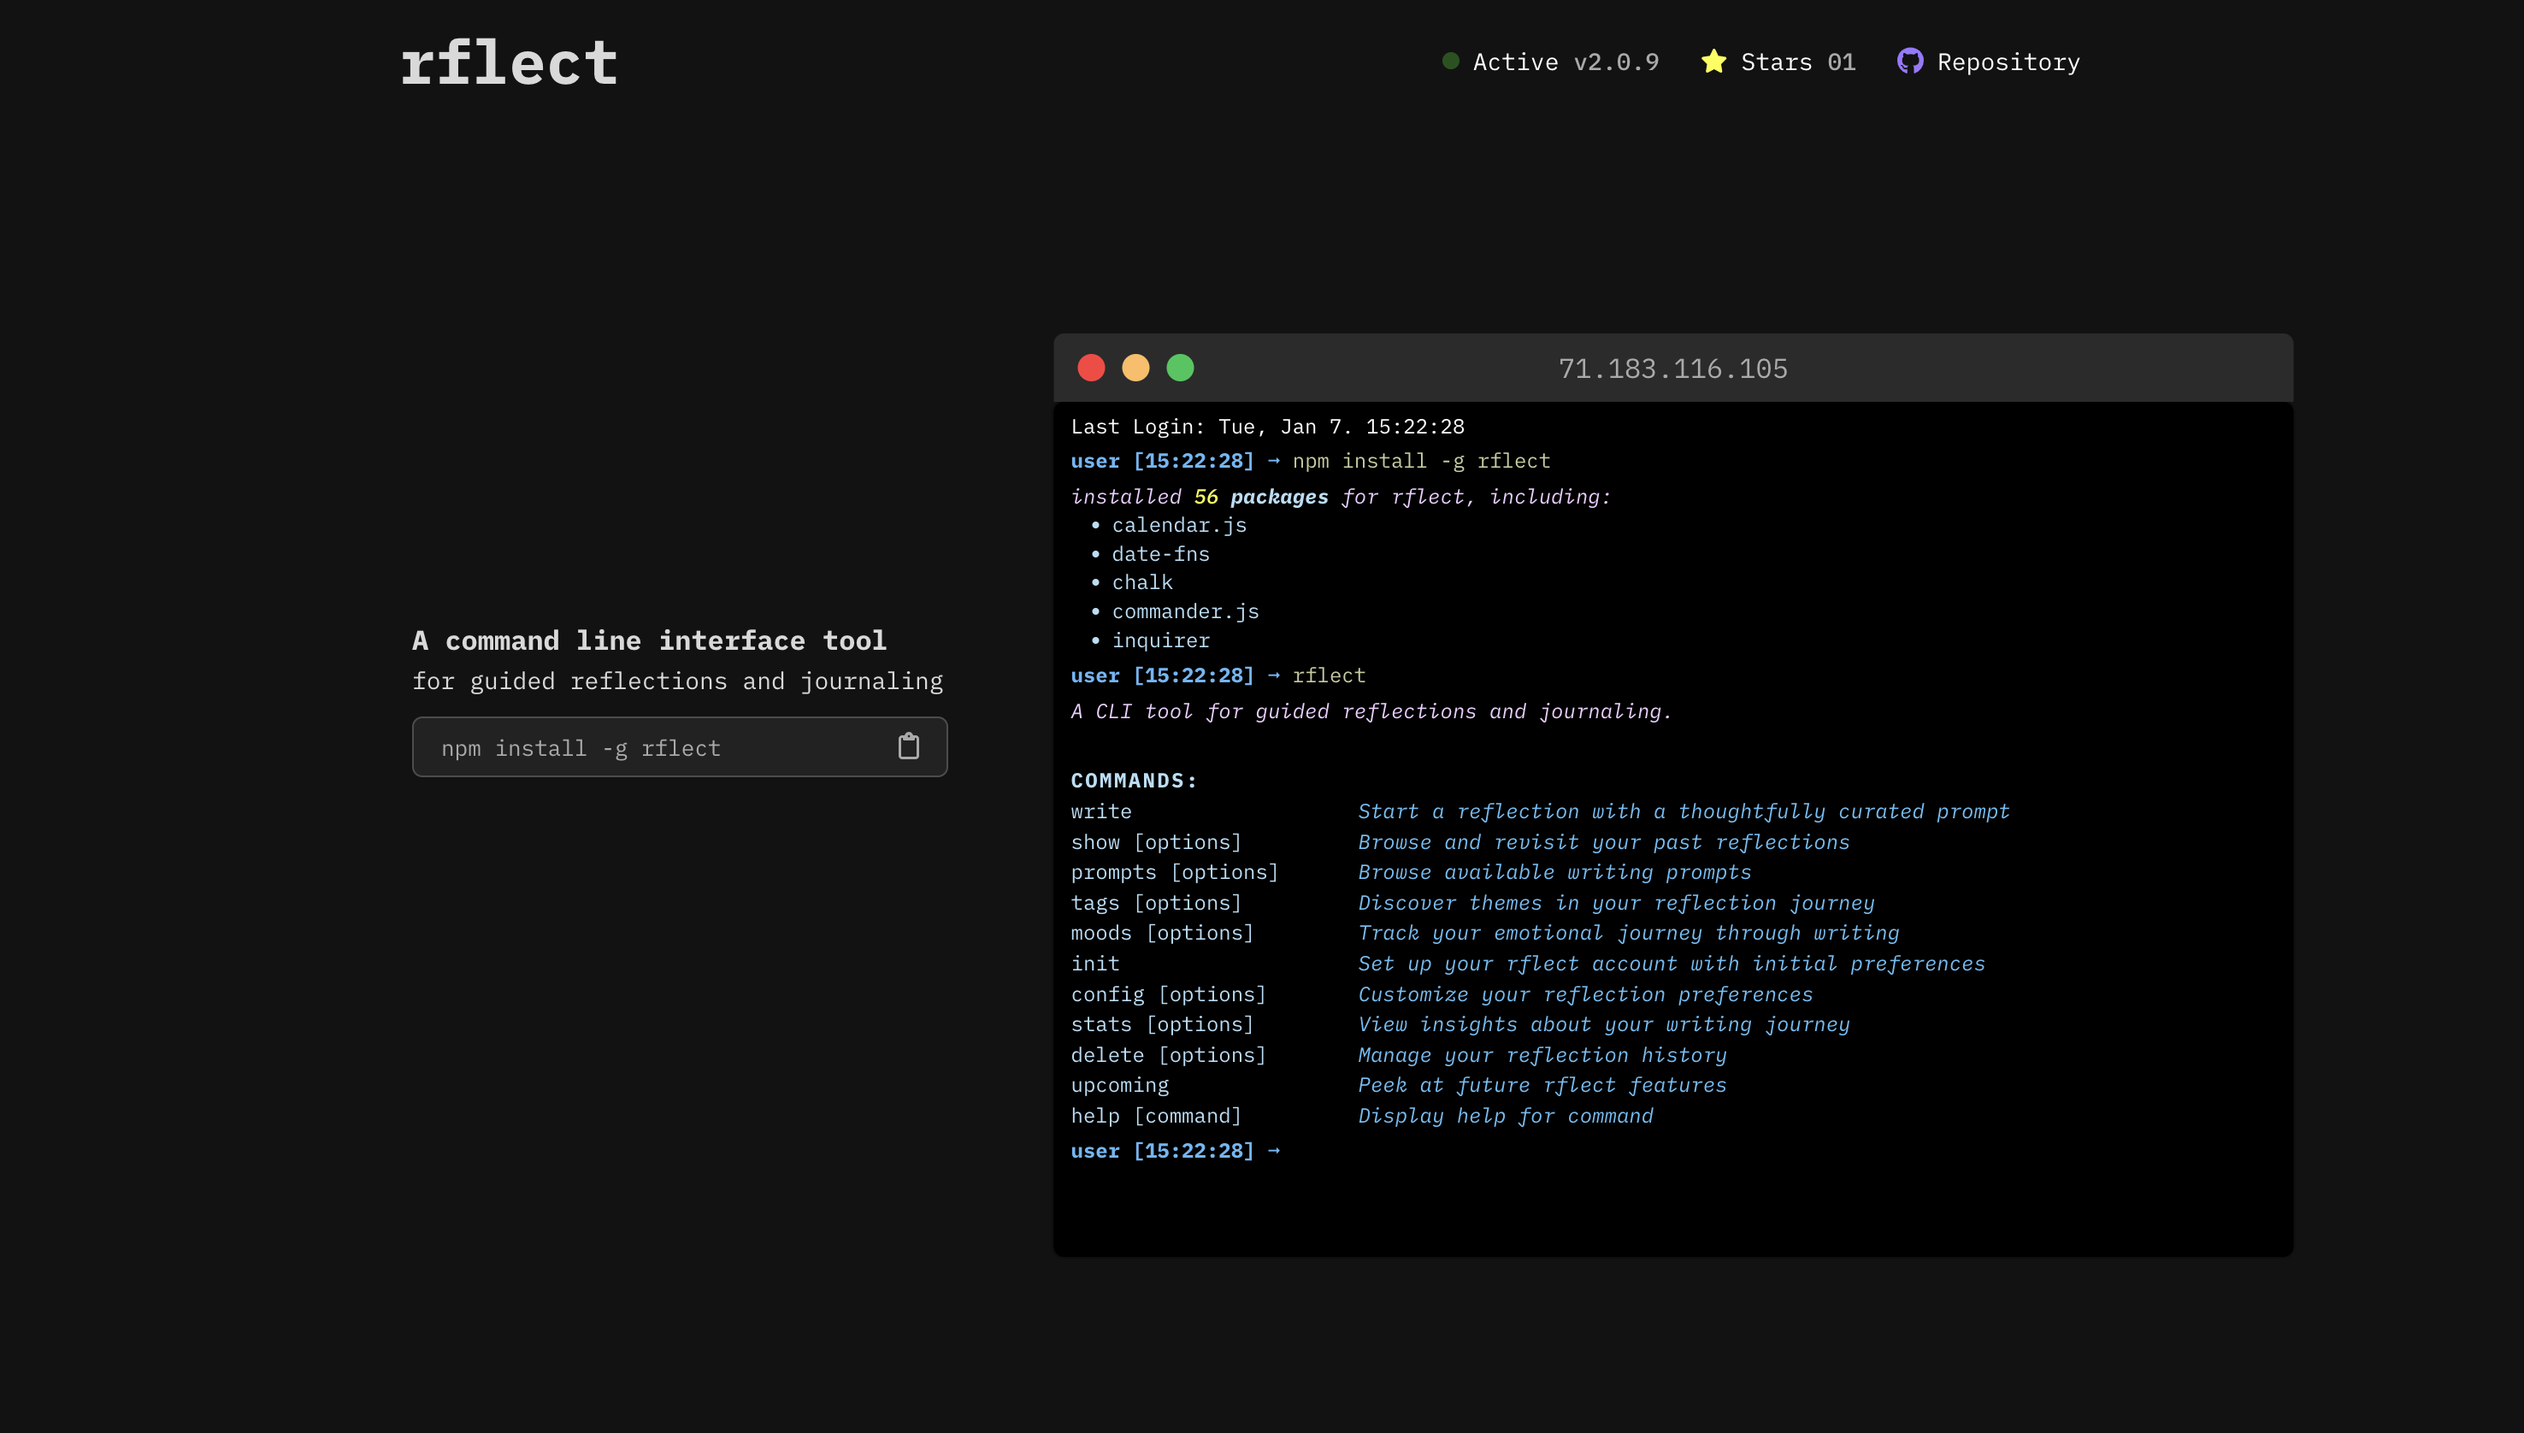
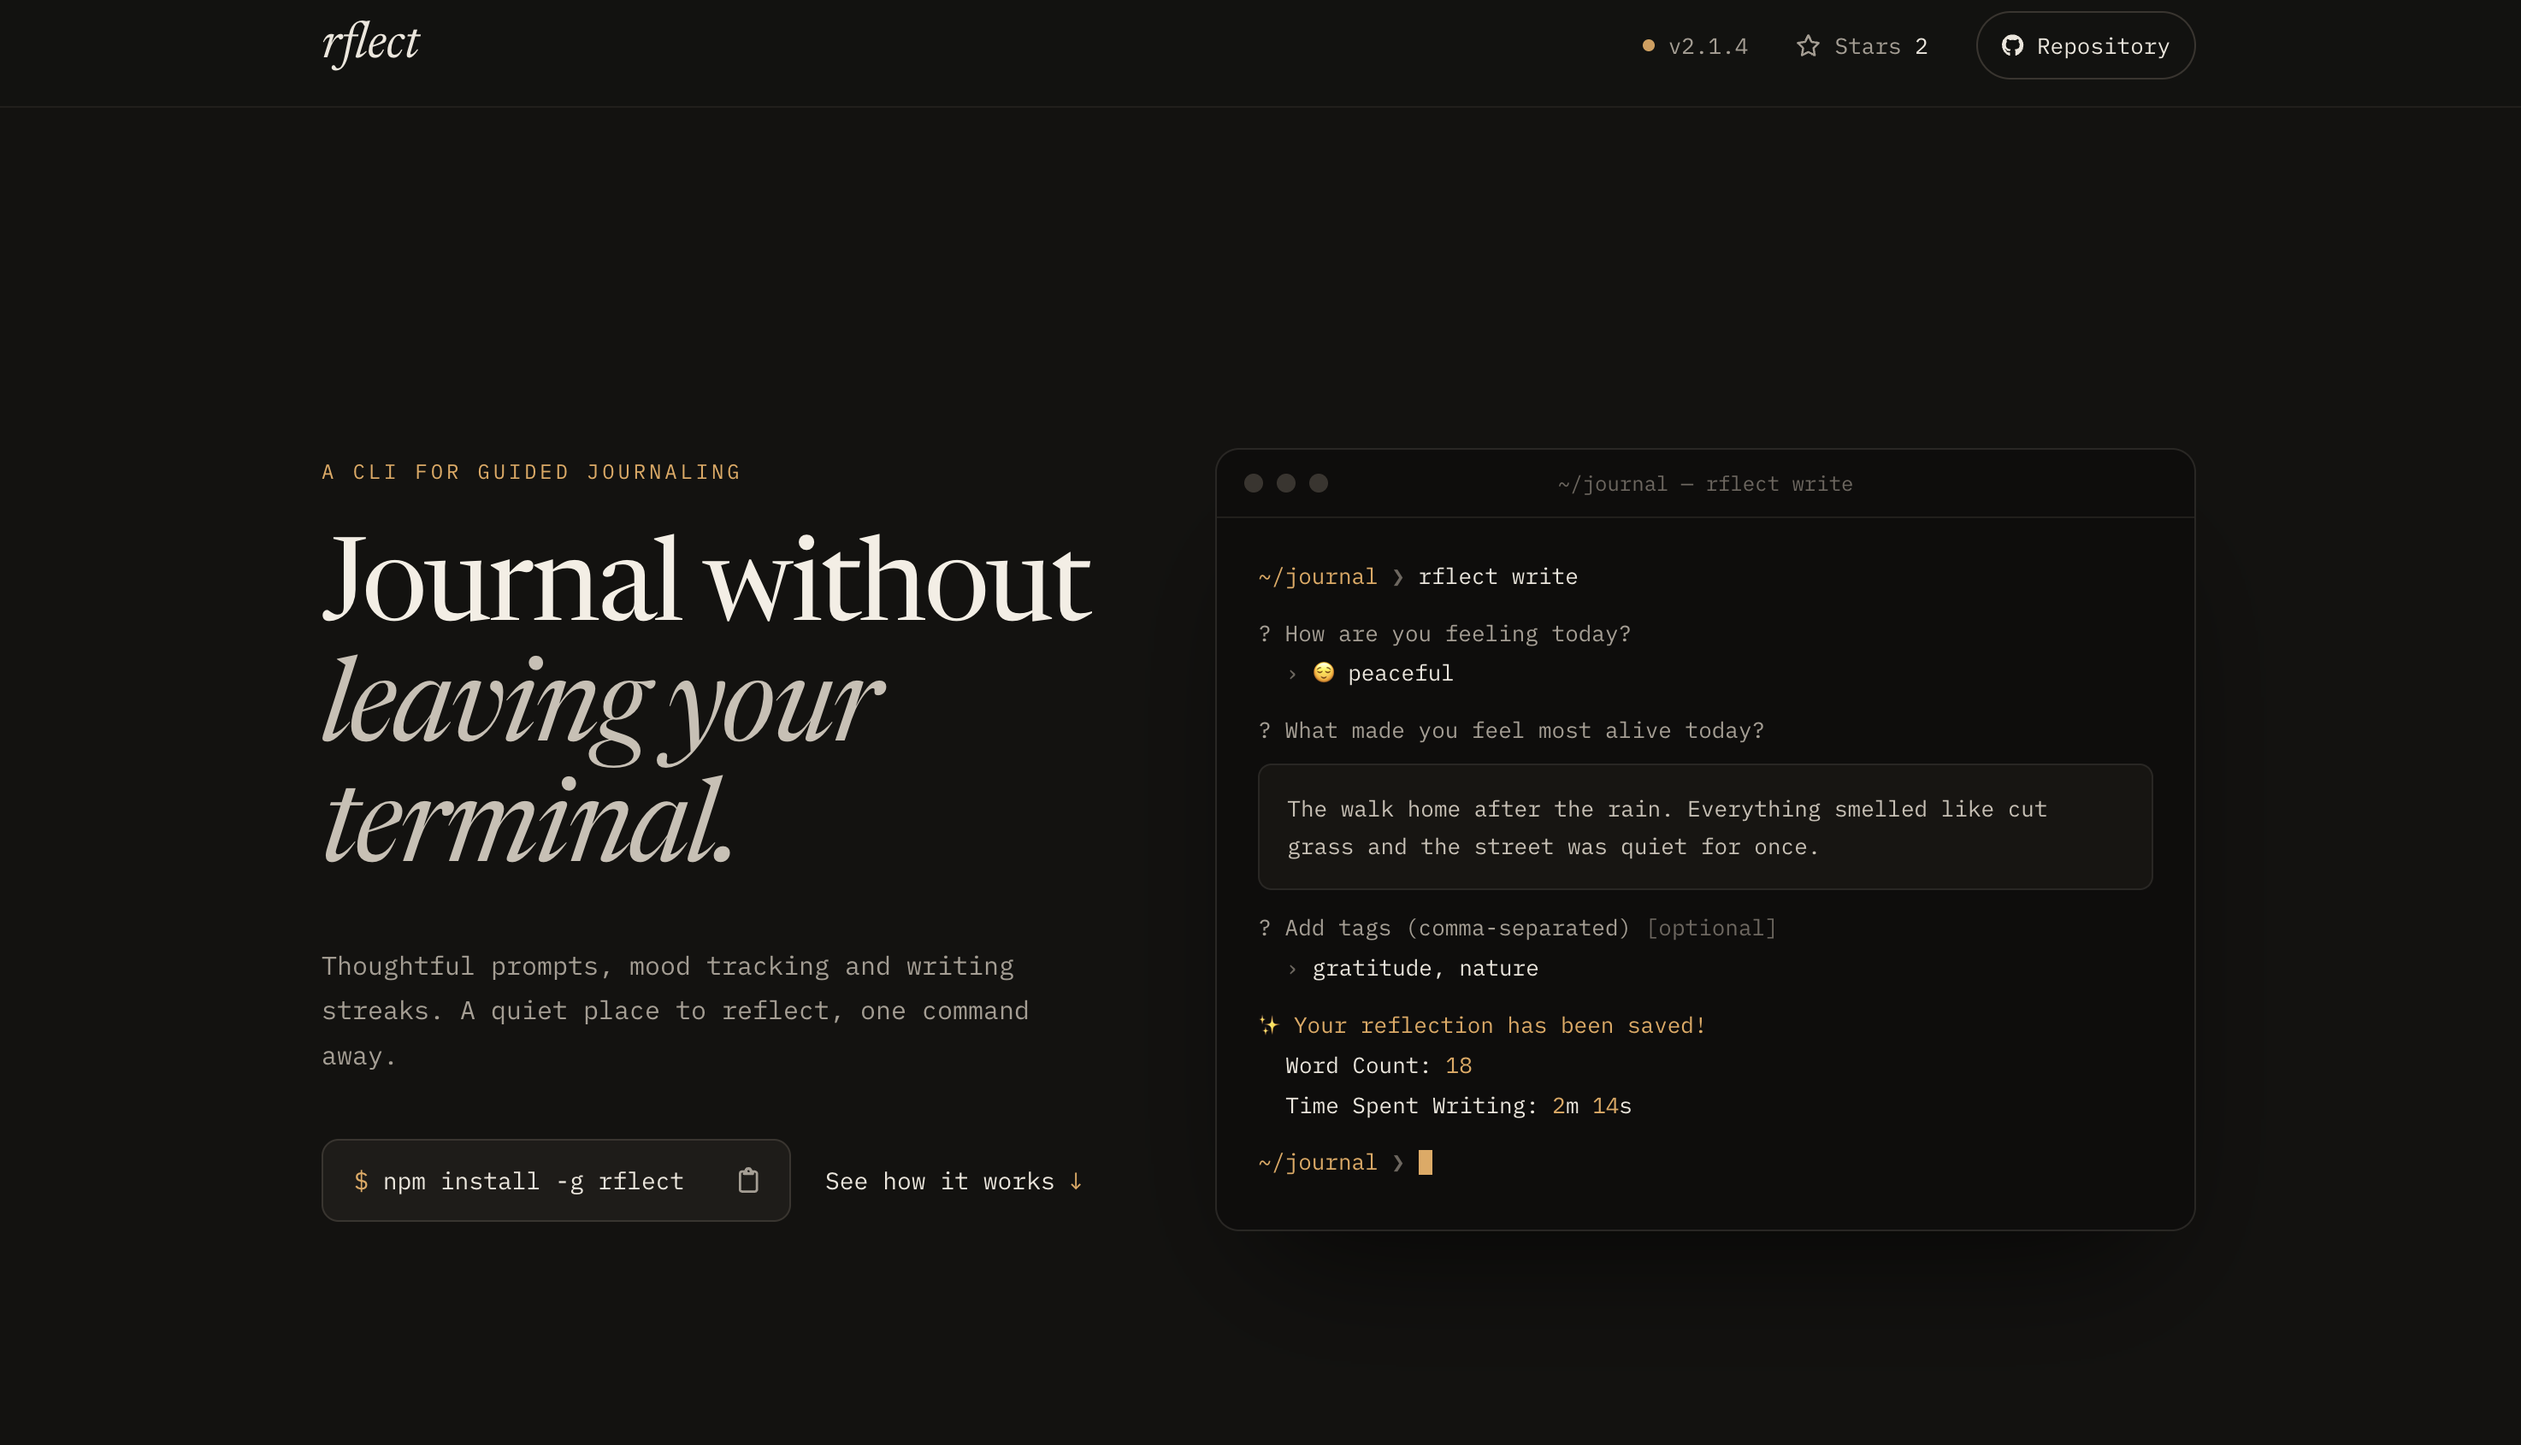
update readme image

diff --git a/README.md b/README.md
@@ -6,8 +6,6 @@ The landing page for rflect, a CLI for guided journaling. It walks through each 
 
 <a href="https://rflect.aniqa.dev"><img src="public/rflect-screenshot-zoomed.png" alt="The rflect landing page: a dark terminal window showing the install output and the list of rflect commands" width="800"></a>
 
-<!-- TODO: this screenshot is from January 2025, before the October 2026 redesign, and shows an IP address in the terminal title bar. Replace it with a screenshot of the current page. -->
-
 ## Tech
 
 - React and Vite
@@ -62,13 +60,13 @@ npm start
 
 ## Scripts
 
-| Command | What it does |
-| --- | --- |
-| `npm start` | Dev server |
-| `npm run build` | Production build |
+| Command           | What it does      |
+| ----------------- | ----------------- |
+| `npm start`       | Dev server        |
+| `npm run build`   | Production build  |
 | `npm run preview` | Preview the build |
-| `npm run lint` | ESLint |
-| `npm run format` | Prettier |
+| `npm run lint`    | ESLint            |
+| `npm run format`  | Prettier          |
 
 ## Changelog
 
